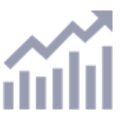
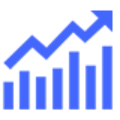
更新kpi和底部菜单icon

diff --git a/src/page/kpi/Index.js b/src/page/kpi/Index.js
@@ -1,22 +1,80 @@
 import React from 'react';
-import { StyleSheet, View, Text } from 'react-native';
+import { View, Text, TextInput, TouchableOpacity, Keyboard, StatusBar, Image } from 'react-native';
 
-class HomeScreen extends React.Component {
+import { Toast, Button, PullPicker } from 'teaset';
+
+const yuanduan = require('../../assets/kpi/yuanduan.png');
+const wangce = require('../../assets/kpi/wangce.png');
+const dianlichaoliu = require('../../assets/kpi/dianli.png');
+const dianyaqushi = require('../../assets/kpi/dianyaqushi.png');
+const hegelv = require('../../assets/kpi/dianyahege.png');
+const fuzailv = require('../../assets/kpi/fadianji.png');
+const youwen = require('../../assets/kpi/zhubianyouwen.png');
+const zhubianfuzailv = require('../../assets/kpi/zhubian.png');
+const zhiliu = require('../../assets/kpi/zhiliu.png');
+
+import IconFont from '@iconfont/index.js';
+// import { updateInfo } from '@api/profile';
+
+import styles from './KpiStyle';
+
+class Index extends React.PureComponent {
+  constructor(props) {
+    super(props);
+    this.state = {
+      fakeData: [
+        { id: 1, val: '源端监视', source: yuanduan },
+        { id: 2, val: '网侧监视', source: wangce },
+        { id: 3, val: '电力潮流图', source: dianlichaoliu },
+        { id: 4, val: '电压趋势图', source: dianyaqushi },
+        { id: 5, val: '电压合格率', source: hegelv },
+        { id: 6, val: '发电机负载率', source: fuzailv },
+        { id: 7, val: '主变油温', source: youwen },
+        { id: 8, val: '主变负载率', source: zhubianfuzailv },
+        { id: 9, val: '直流系统', source: zhiliu },
+      ],
+    };
+  }
+  static navigationOptions = {
+    headerShown: false,
+  };
+
+  componentDidMount() {}
+
+  handleSelect = () => {
+    const items = ['分组1', '分组2', '分组3'];
+    PullPicker.show('请选择分组', items, this.state.selectedIndex, (item, index) =>
+      this.setState({ selectedIndex: index, groupName: item }, () => console.log(item)),
+    );
+  };
+
   render() {
+    const { fakeData } = this.state;
     return (
-      <View style={styles.text}>
-        <Text>kpi</Text>
+      <View style={styles.container}>
+        <StatusBar
+          animated
+          translucent
+          backgroundColor="transparent"
+          showHideTransition="fade"
+          networkActivityIndicatorVisible
+        />
+        <View style={styles.navigationBar}>
+          <Text style={styles.content}>kpi</Text>
+        </View>
+        <View style={styles.centerContainer}>
+          {fakeData.map(item => {
+            return (
+              <TouchableOpacity style={styles.card} key={item.id} onPress={() => this.props.navigation.goBack()}>
+                <Image style={styles.commonPic} source={item.source} />
+                <Text style={styles.commonText}>{item.val}</Text>
+              </TouchableOpacity>
+            );
+          })}
+        </View>
       </View>
     );
   }
 }
 
-const styles = StyleSheet.create({
-  text: {
-    flex: 1,
-    justifyContent: 'center',
-    alignItems: 'center',
-  },
-});
-
-export default HomeScreen;
+export default Index;

diff --git a/src/route/bottomNav.js b/src/route/bottomNav.js
@@ -6,10 +6,6 @@ import { createStackNavigator } from 'react-navigation-stack';
 import { getActiveChildNavigationOptions } from 'react-navigation';
 
 // import { heightPercentageToDP as hp, widthPercentageToDP as wp } from 'react-native-responsive-screen';
-
-import IconWithBadge from '../components/IconWithBadge';
-import NavigationService from '../../NavigationService';
-
 import Home from '@page/home/Index';
 
 import monitor from '@page/monitor/Index';
@@ -29,6 +25,9 @@ import AddGroup from '@page/profile/AddGroup';
 import { queryMenu } from '@api/login';
 
 import { p2dWidth, p2dHeight } from '../utils/device';
+
+import IconWithBadge from '../components/IconWithBadge';
+import NavigationService from '../../NavigationService';
 
 // 底部一级导航器
 const HomeStack = createStackNavigator({ Home });
@@ -83,25 +82,23 @@ ProfileStack.navigationOptions = ({ navigation }) => {
 // 渲染icon
 const iconMap = {
   首页: {
-    // icon: 'qiche',
-    icon: require('@assets/home/tabbar/homeicon.png'),
+    icon: require('@assets/home/tabbar/homeicon2.png'),
     iconActive: require('@assets/home/tabbar/homeicon.png'),
   },
   监控: {
-    // icon: 'yuyue',
-    icon: require('@assets/home/tabbar/monitoricon.png'),
-    iconActive: require('@assets/home/tabbar/monitoricon.png'),
+    icon: require('@assets/home/tabbar/jiankongicon2.png'),
+    iconActive: require('@assets/home/tabbar/jiankongicon.png'),
   },
   kpi: {
-    icon: require('@assets/home/tabbar/kpiicon.png'),
+    icon: require('@assets/home/tabbar/kpiicon2.png'),
     iconActive: require('@assets/home/tabbar/kpiicon.png'),
   },
-  警告: {
-    icon: require('@assets/home/tabbar/gaojingicon.png'),
+  告警: {
+    icon: require('@assets/home/tabbar/gaojingicon2.png'),
     iconActive: require('@assets/home/tabbar/gaojingicon.png'),
   },
   我的: {
-    icon: require('@assets/home/tabbar/wodeicon.png'),
+    icon: require('@assets/home/tabbar/wodeicon2.png'),
     iconActive: require('@assets/home/tabbar/wodeicon.png'),
   },
 };
@@ -124,7 +121,7 @@ class customTabBar extends React.PureComponent {
     //   }
     // });
     this.setState({
-      menuData: ['首页', '监控', 'kpi', '警告', '我的'],
+      menuData: ['首页', '监控', 'kpi', '告警', '我的'],
     });
   }
 
@@ -164,7 +161,7 @@ class customTabBar extends React.PureComponent {
       case 'kpi':
         NavigationService.navigate('Kpi');
         break;
-      case '警告':
+      case '告警':
         NavigationService.navigate('Warning');
         break;
       case '我的':

diff --git a/src/page/kpi/KpiStyle.js b/src/page/kpi/KpiStyle.js
@@ -1,0 +1,72 @@
+import { StyleSheet } from 'react-native';
+import { widthPercentageToDP as wp, heightPercentageToDP as hp } from 'react-native-responsive-screen';
+
+const BASE_WIDTH = 10.8;
+const BASE_HEIGHT = 19.2;
+
+export default StyleSheet.create({
+  container: {
+    flex: 1,
+  },
+  navigationBar: {
+    width: wp(1080 / BASE_WIDTH),
+    height: wp(215 / BASE_WIDTH),
+    backgroundColor: '#3D447B',
+  },
+  iconContainer: {
+    position: 'absolute',
+    width: 'auto',
+    top: hp(130 / BASE_HEIGHT),
+    height: hp(215 / BASE_HEIGHT),
+    left: wp(70 / BASE_WIDTH),
+    zIndex: 100,
+  },
+  content: {
+    position: 'absolute',
+    color: '#fff',
+    width: '100%',
+    textAlign: 'center',
+    fontSize: hp(48 / BASE_HEIGHT),
+    fontWeight: 'bold',
+    top: hp(128 / BASE_HEIGHT),
+    height: hp(215 / BASE_HEIGHT),
+    // left: wp(70 / BASE_WIDTH),
+  },
+  centerContainer: {
+    position: 'relative',
+    width: wp(978 / BASE_WIDTH),
+    height: hp(1130 / BASE_HEIGHT),
+    // backgroundColor: 'pink',
+    marginLeft: wp(84 / BASE_WIDTH),
+    marginTop: hp(80 / BASE_HEIGHT),
+    flexDirection: 'row',
+    flexWrap: 'wrap',
+    justifyContent: 'flex-start',
+  },
+  card: {
+    alignItems: 'center',
+    width: wp(260 / BASE_WIDTH),
+    height: hp(350 / BASE_HEIGHT),
+    marginBottom: hp(40 / BASE_HEIGHT),
+    marginRight: wp(66 / BASE_WIDTH),
+    backgroundColor: '#fff',
+    borderRadius: wp(15 / BASE_WIDTH),
+    shadowColor: 'rgba(0, 0, 0, 0.15)',
+    shadowOffset: { width: 10, height: 10 },
+  },
+  commonPic: {
+    marginTop: hp(57 / BASE_HEIGHT),
+    width: wp(144 / BASE_WIDTH),
+    height: wp(144 / BASE_WIDTH),
+    borderRadius: wp(72 / BASE_WIDTH),
+  },
+  commonText: {
+    color: '#333',
+    width: '100%',
+    textAlign: 'center',
+    fontSize: hp(36 / BASE_HEIGHT),
+    lineHeight: hp(46 / BASE_HEIGHT),
+    marginTop: hp(8 / BASE_HEIGHT),
+    fontWeight: 'bold',
+  },
+});
